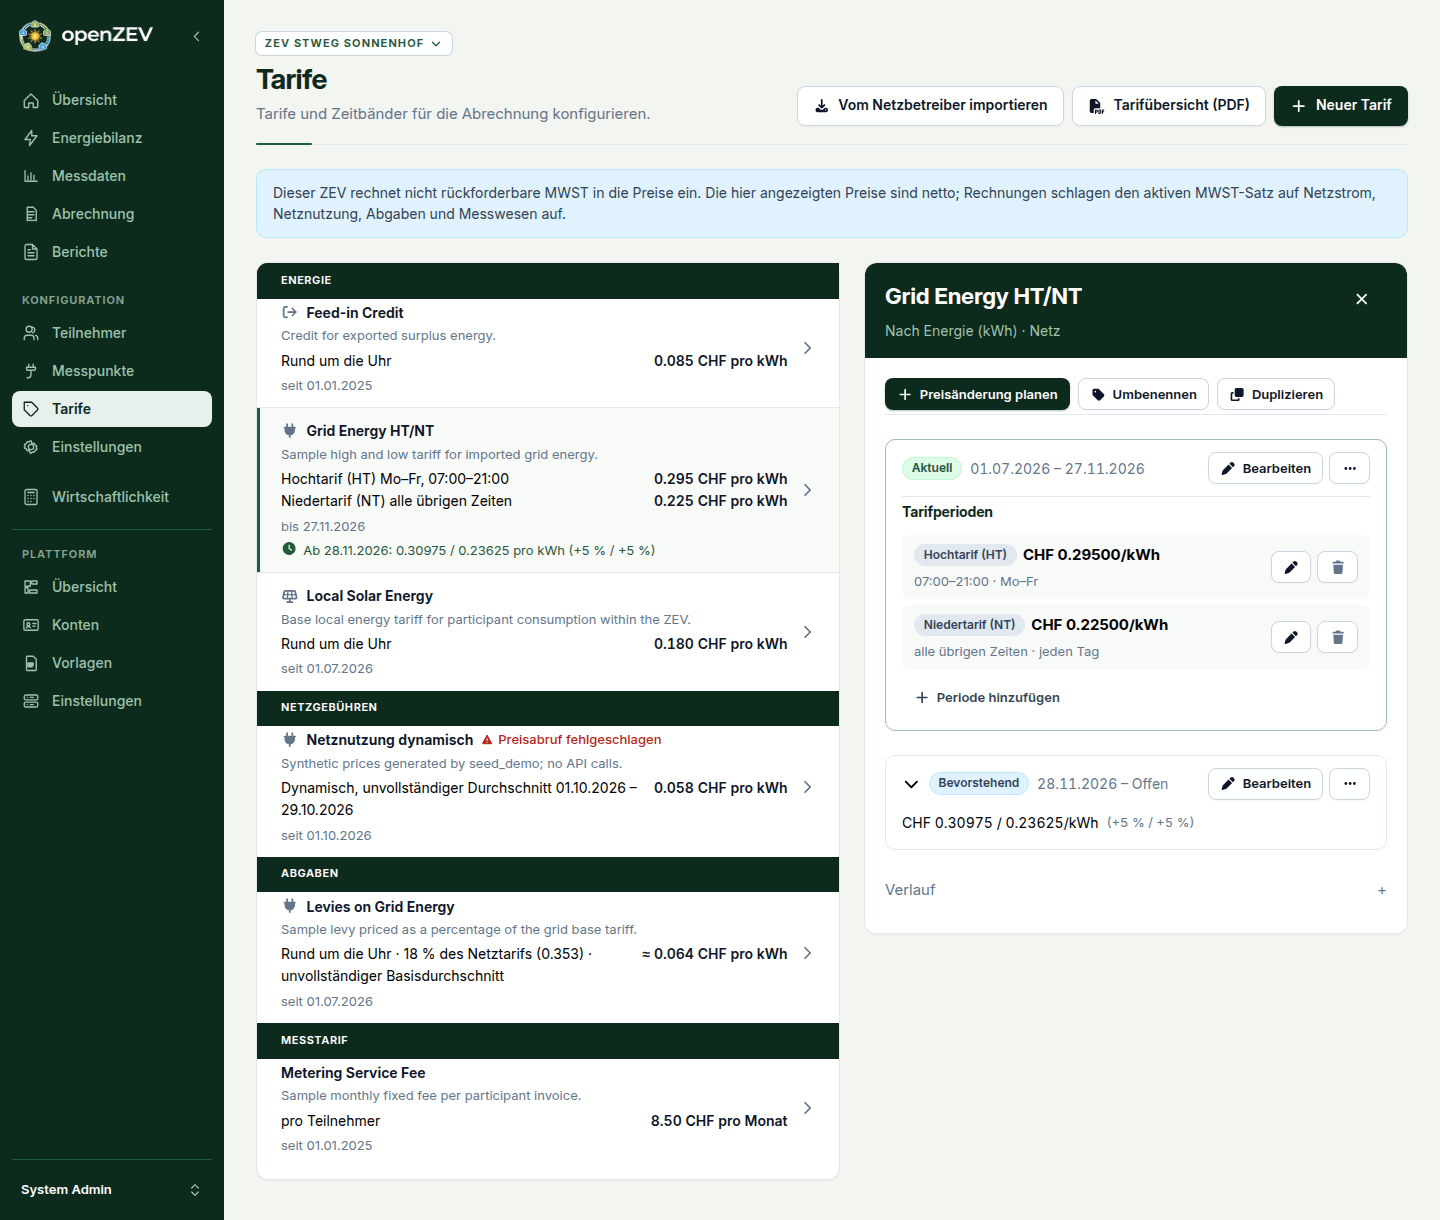
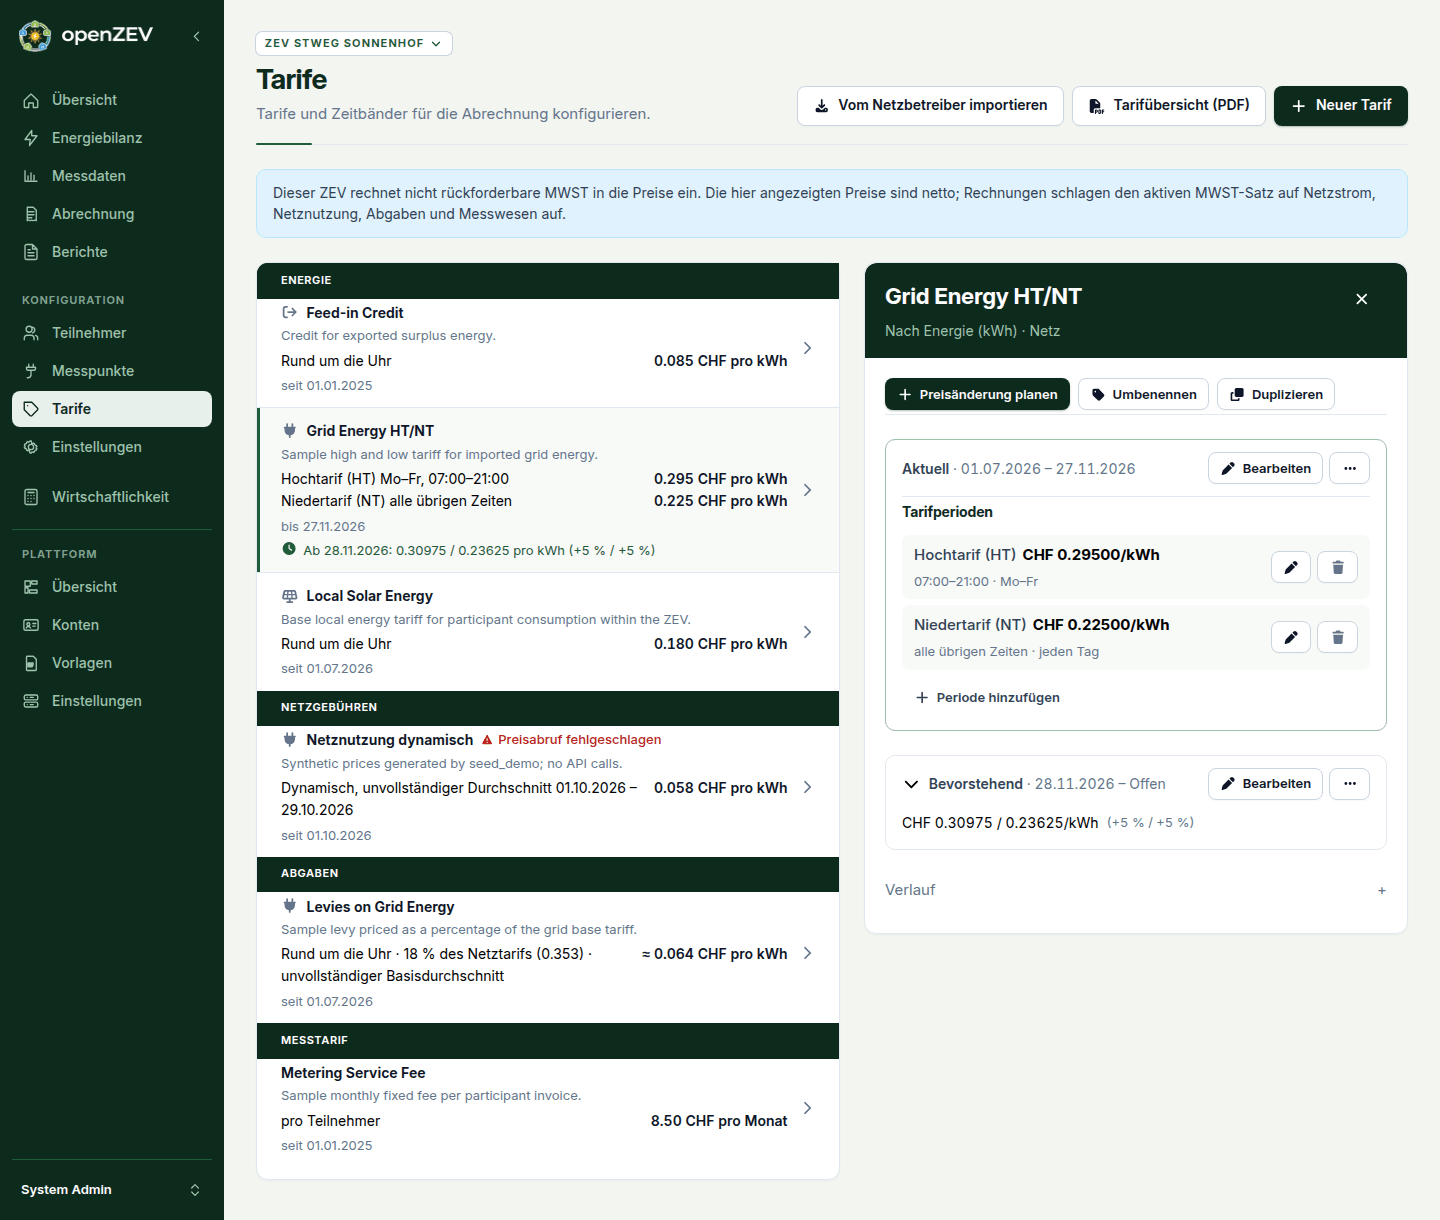
feat(tariffs): quieter badges in the tariff pane (#1139)
Band names are plain text in the pane, the draft bands and the price
change form, as in the list. A version's standing is the word Current or
Upcoming in front of its window instead of a coloured pill, and a past
version opened from the history no longer repeats "Ended". Drops the
unused badge class from validityBadge and the statusEnded string.

Closes #1133

diff --git a/frontend/src/features/tariffs/TariffDetailPane.tsx b/frontend/src/features/tariffs/TariffDetailPane.tsx
@@ -181,13 +181,19 @@ export function TariffDetailPane({
         const previous = previousOf(version)
         const comparison = previous ? deltaSummary(series, previous, version, (diff) => t('pages.tariffs.change.points', { diff })) : null
         const uncovered = hasBands && version.periods.length > 0 && bandCoverage(version.periods, version).uncovered
-        const status = (
-            <span className={`badge ${state === 'active' ? 'badge-success' : state === 'scheduled' ? 'badge-info' : 'badge-neutral'}`}>
-                {t(state === 'active'
-                    ? 'pages.tariffs.overview.current'
-                    : state === 'scheduled'
-                        ? 'pages.tariffs.overview.upcoming'
-                        : 'pages.tariffs.versions.statusEnded')}
+        // Plain words, not a pill: the state is the text, never a colour. A past
+        // version sits under the history heading, which already says it ended.
+        const standing = (
+            <span className="tariff-version-card-window">
+                {state !== 'expired' && (
+                    <>
+                        <strong className="tariff-version-card-state">
+                            {t(state === 'active' ? 'pages.tariffs.overview.current' : 'pages.tariffs.overview.upcoming')}
+                        </strong>
+                        {' \u00b7 '}
+                    </>
+                )}
+                {dateWindow(version)}
             </span>
         )
         return (
@@ -206,13 +212,11 @@ export function TariffDetailPane({
                             onClick={() => setUnfolded((current) => ({ ...current, [version.id]: !open }))}
                         >
                             <FontAwesomeIcon icon={faChevronDown} className="disclosure-toggle-icon" fixedWidth aria-hidden="true" />
-                            {status}
-                            <span className="tariff-version-card-window">{dateWindow(version)}</span>
+                            {standing}
                         </button>
                     ) : (
                         <div className="tariff-version-card-title">
-                            {status}
-                            <span className="tariff-version-card-window">{dateWindow(version)}</span>
+                            {standing}
                         </div>
                     )}
                     {!readOnly && (
@@ -286,7 +290,7 @@ export function TariffDetailPane({
                                         <div key={period.id} className="tariff-period-row">
                                             <div className="tariff-period-main">
                                                 <div className="tariff-period-line">
-                                                    <span className="badge badge-neutral">
+                                                    <span className="tariff-band-name">
                                                         {bandName(period, t(`pages.tariffs.periodTypes.${period.period_type}` as Parameters<typeof t>[0], { defaultValue: period.period_type }))}
                                                     </span>
                                                     {isPercentageTariff ? (

diff --git a/frontend/tests/tariff-detail-pane.test.ts b/frontend/tests/tariff-detail-pane.test.ts
@@ -51,7 +51,9 @@ describe('TariffDetailPane', () => {
     it('shows the current and the scheduled version in full, and folds the past into the history', async () => {
         const container = await pane()
         const cards = [...container.querySelectorAll('.tariff-version-card')]
-        expect(cards.slice(0, 2).map((card) => card.querySelector('.badge')?.textContent)).toEqual([
+        // Words, not pills: the standing is text in front of the window.
+        expect(container.querySelector('.tariff-version-card .badge')).toBeNull()
+        expect(cards.slice(0, 2).map((card) => card.querySelector('.tariff-version-card-state')?.textContent)).toEqual([
             'pages.tariffs.overview.current', 'pages.tariffs.overview.upcoming',
         ])
         const history = container.querySelector<HTMLDetailsElement>('.disclosure')!
@@ -64,7 +66,10 @@ describe('TariffDetailPane', () => {
         const container = await pane({ shownVersionId: 'past' })
         expect(container.querySelector<HTMLDetailsElement>('.disclosure')!.open).toBe(true)
         expect(container.querySelector('.tariff-version-row.is-shown.is-ended')).not.toBeNull()
-        expect(container.querySelector('.disclosure .tariff-version-card .badge')?.textContent).toBe('pages.tariffs.versions.statusEnded')
+        // The history heading already says it ended, so the card does not repeat it.
+        const card = container.querySelector('.disclosure .tariff-version-card')!
+        expect(card.querySelector('.badge, .tariff-version-card-state')).toBeNull()
+        expect(card.querySelector('.tariff-version-card-window')?.textContent).toContain('\u2013')
     })
 
     it('says what the scheduled version changes against the one before it', async () => {

diff --git a/frontend/src/features/tariffs/useTariffDisplay.ts b/frontend/src/features/tariffs/useTariffDisplay.ts
@@ -4,19 +4,11 @@ import { fetchDynamicTariffSources } from '../../lib/api/tariffs'
 import { queryKeys } from '../../lib/api/queryKeys'
 import { formatShortDate } from '../../lib/appSettings'
 import type { AppSettings, DynamicTariffSource, Tariff, TariffSeries, TariffVersion } from '../../types/api'
-import { validityState, type ValidityState } from './validity'
+import { validityState } from './validity'
 import { MONTH_KEYS, WEEKDAY_KEYS } from './recurrence'
 import { buildRateLines, kwhPrice, type RateLine } from './rateLines'
 
 export type { RateLine }
-
-// Validity is a state, so it keeps the status colours — scheduled is the blue
-// of "upcoming" everywhere else.
-const VALIDITY_BADGE_CLASS: Record<ValidityState, string> = {
-    active: 'badge badge-success',
-    scheduled: 'badge badge-info',
-    expired: 'badge badge-neutral',
-}
 
 /** The band percentages of a percentage-of-energy version, as numbers. */
 export function percentageValues(version: TariffVersion): number[] {
@@ -67,7 +59,6 @@ export function useTariffDisplay(settings: AppSettings, today: string) {
                     ? t('pages.tariffs.validity.until', { date: validTo })
                     : t('pages.tariffs.validity.since', { date: validFrom })
         return {
-            className: VALIDITY_BADGE_CLASS[state],
             label,
             tooltip: `${validFrom} - ${validTo ?? t('pages.tariffs.openEnded')}`,
         }

diff --git a/frontend/src/features/tariffs/TariffDraftBands.tsx b/frontend/src/features/tariffs/TariffDraftBands.tsx
@@ -125,7 +125,7 @@ export function TariffDraftBands({
                 <div key={index} className={`tariff-period-row${messages.length > 0 ? ' has-error' : ''}`}>
                   <div className="tariff-period-main">
                     <div className="tariff-period-line">
-                      <span className="badge badge-neutral">{name}</span>
+                      <span className="tariff-band-name">{name}</span>
                       <strong>CHF {kwhPrice.format(Number(band.price_chf_per_kwh))}/kWh</strong>
                     </div>
                     <div className="muted tariff-period-meta">{describe(band)}</div>

diff --git a/frontend/src/features/tariffs/TariffVersionForm.tsx b/frontend/src/features/tariffs/TariffVersionForm.tsx
@@ -259,7 +259,7 @@ export function TariffVersionForm({
               <div className="tariff-version-price-list">
                 {periods.map((period, index) => (
                   <label key={`${period.period_type}-${index}`} className="tariff-version-price-row">
-                    <span className="badge badge-neutral">
+                    <span className="tariff-band-name">
                       {t(`pages.tariffs.periodTypes.${period.period_type}` as Parameters<typeof t>[0], {
                         defaultValue: period.period_type,
                       })}

diff --git a/frontend/src/i18n/locales/fr.ts b/frontend/src/i18n/locales/fr.ts
@@ -2156,7 +2156,6 @@ export const fr = {
                 renameHint_other: 'Le changement de nom concerne les {{count}} versions \u2014 le nom est ce qui les relie.',
                 deleteVersion: 'Supprimer cette version',
                 moreActions: 'Plus',
-                statusEnded: 'Terminée',
                 gapBadge_one: '{{count}} lacune',
                 gapBadge_other: '{{count}} lacunes',
                 gapTooltip: 'Une partie de la chronologie n\u2019a aucune version : l\u2019\u00e9nergie y est factur\u00e9e \u00e0 z\u00e9ro.',

diff --git a/frontend/src/i18n/locales/it.ts b/frontend/src/i18n/locales/it.ts
@@ -2156,7 +2156,6 @@ export const it = {
                 renameHint_other: 'La ridenominazione riguarda tutte le {{count}} versioni \u2014 il nome \u00e8 ci\u00f2 che le tiene insieme.',
                 deleteVersion: 'Elimina questa versione',
                 moreActions: 'Altro',
-                statusEnded: 'Conclusa',
                 gapBadge_one: '{{count}} lacuna',
                 gapBadge_other: '{{count}} lacune',
                 gapTooltip: 'Una parte della cronologia non ha alcuna versione: l\u2019energia vi \u00e8 fatturata a zero.',

diff --git a/frontend/src/i18n/locales/de.ts b/frontend/src/i18n/locales/de.ts
@@ -2156,7 +2156,6 @@ export const de = {
                 renameHint_other: 'Die Umbenennung betrifft alle {{count}} Versionen \u2014 der Name h\u00e4lt sie zusammen.',
                 deleteVersion: 'Diese Version l\u00f6schen',
                 moreActions: 'Mehr',
-                statusEnded: 'Beendet',
                 gapBadge_one: '{{count}} L\u00fccke',
                 gapBadge_other: '{{count}} L\u00fccken',
                 gapTooltip: 'Ein Teil des Zeitverlaufs hat keine Version \u2014 Energie darin wird mit null verrechnet.',

diff --git a/frontend/src/i18n/locales/en.ts b/frontend/src/i18n/locales/en.ts
@@ -2167,7 +2167,6 @@ export const en = {
                 renameHint_other: 'Renaming applies to all {{count}} versions — the name is what keeps them together.',
                 deleteVersion: 'Delete this version',
                 moreActions: 'More',
-                statusEnded: 'Ended',
                 gapBadge_one: '{{count}} gap',
                 gapBadge_other: '{{count}} gaps',
                 gapTooltip: 'Part of this tariff\u2019s timeline has no version, so energy there is billed at nothing.',

diff --git a/frontend/src/features/tariffs/TariffDetailPane.css b/frontend/src/features/tariffs/TariffDetailPane.css
@@ -63,6 +63,19 @@
   font-variant-numeric: tabular-nums;
 }
 
+/* Current or upcoming, as a word in front of the window. */
+.tariff-version-card-state {
+  color: var(--text-body);
+  font-weight: 600;
+}
+
+/* A band's name: plain text, as the list shows it, in the pane, the draft
+   bands and the version form alike. */
+.tariff-band-name {
+  color: var(--text-body);
+  font-weight: 500;
+}
+
 .tariff-version-card-body {
   display: grid;
   gap: 0.75rem;

diff --git a/docs/specs/2026-10-tariff-split-view.md b/docs/specs/2026-10-tariff-split-view.md
@@ -255,7 +255,7 @@ Values and decisions the pilot produced (reference spec §13, open question 3).
 | Go/no-go for creation | **Go, with one case not exercised.** A simple fixed fee was created, renamed and deleted in the pane on the dev stack; the dynamic source form opened and was dirty-guarded as an inline section of the tariff form (`DynamicSourceForm`, the body of the former dialog, shared with the admin page), outside the tariff `<form>` so forms do not nest; a many-band tariff was created as one tariff and its bands added through the band form in the pane, which was opened but not run with many bands. Since #1113 the create form takes the bands of an energy tariff itself (see tariffs-and-billing-engine §3.2e). No task moved to a page. |
 | Duplicate | The spec did not name it; it follows rule A and is a pane form like rename and schedule price change. |
 | Pane content | The tariff price history chart sits in a lazily mounted disclosure (the shared `Disclosure`, `lazy`, since phase 2). A dynamic source's price chart is visible by default (only its statistics and interval table are in a lazy disclosure), see the dynamic-tariffs spec §10.4. Counts and validity pills are gone from the pane. |
-| Pane layout | The pane has two levels. Header actions are tariff-level and visible: Schedule price change, Rename, Duplicate. Under them every version in force or scheduled has its own card (`versionCard`, `.tariff-version-card`), the one in force first, nearest scheduled next. A card leads with its status badge (Current / Upcoming, replacing the "Viewing an …" banner) and the validity window in muted text, then its own labelled **Edit**. The body holds the price of a tariff without bands, the dynamic source or the bands (a pencil per band, a quiet **Add Period** under them), and the band coverage notice. Notes appear only when they differ from the notes of the version the overview row shows (`listedVersion`). The version the list pointed at (`version` parameter) gets an outline when there are several cards. |
+| Pane layout | The pane has two levels. Header actions are tariff-level and visible: Schedule price change, Rename, Duplicate. Under them every version in force or scheduled has its own card (`versionCard`, `.tariff-version-card`), the one in force first, nearest scheduled next. A card leads with its standing as plain words (Current / Upcoming in `.tariff-version-card-state`, replacing the "Viewing an …" banner) in front of the validity window in muted text (`Current · 01.07.2026 – 26.11.2026`), then its own labelled **Edit**; neither is a pill, and the state is the word, never the colour. A past version opened from the history shows only its window, with no "Ended" marker, since the history heading says it. A band's name (pane, draft bands, price-change form) is plain text, `.tariff-band-name`, as in the list. The body holds the price of a tariff without bands, the dynamic source or the bands (a pencil per band, a quiet **Add Period** under them), and the band coverage notice. Notes appear only when they differ from the notes of the version the overview row shows (`listedVersion`). The version the list pointed at (`version` parameter) gets an outline when there are several cards. |
 | Scheduled cards | A scheduled version is **folded** to a line by default: a toggle button (`aria-expanded`, `aria-controls`) over status and window, then its price summary, the relative change against the version before it (`deltaSummary`) and an **Hours without a band** issue text when `bandCoverage` finds uncovered hours, so a problem is not hidden by the fold. It is open by default when it is the shown version; opening or folding is remembered per version id for the life of the pane. The current version is never folded. |
 | History | `History` (no count) is a disclosure under the cards, present only when versions have ended. It holds the price-history chart (when the series has more than one version) and a list of the ended versions (window and price, `aria-pressed`); picking one shows its card, marked Ended, below the list. It opens by itself when an ended version is the shown one or nothing is in force or scheduled. |
 | Change against the previous version | `priceDelta.ts`: `versionDeltas` compares each band of a scheduled version with the band of the version before it that applies to the same type, label, hours, weekdays and months (a band with no counterpart gets none), or the fixed fee of a flat-fee tariff; percentage tariffs compare points; a dynamic version has none. `formatDelta` renders `+0.020 (+6.8 %)` (the amount, then the relative change; percentage points for a percentage tariff) and `deltaSummary` the relative figures only, in band order, `±0` for an unchanged band, `null` when nothing moved. Shown beside the band price in the card and, as a summary, in the folded card and in the overview row. A visually hidden prefix names it for screen readers. |

diff --git a/docs/specs/2026-04-frontend-management-page-design.md b/docs/specs/2026-04-frontend-management-page-design.md
@@ -518,7 +518,7 @@ Rules:
   - Current, Upcoming and a folded History, each a sheet with a table per category, in the order `energy`, `grid_fees`, `levies`, `metering`, the category named in the table's band
   - a rate card like the tariff overview PDF: one row per tariff series with the name, energy type and note, a line per price band (applicability, price and unit) and its validity; narrow cards repeat each band as one unit with its own CHF; pricing explanations remain on the narrow bands, and partial percentage bases visibly say “incomplete base average”; the combined band column has a visually hidden header associated through `headers`; the row opens the detail pane on its displayed version
   - tariff periods, versions and actions (Edit included) in the detail pane, which also holds the forms: create, edit a version, schedule a price change, rename, duplicate, add or edit a band (no dialog opens over it; the dynamic source form is an inline section). Unsaved input is guarded for X, Cancel, Escape, Back, selecting another tariff or version, and reload (`useDraftGuard`)
-- Badges beside a tariff name are reserved for warnings (a gap, a failed price fetch); validity is plain text in the Valid column, and a row whose version has ended sits on a grey ground. `tariffOverview` groups the series (the version in force; the nearest upcoming one; the newest ended one). `listedVersion` consumes the API’s newest-first order, choosing the current version, otherwise the nearest upcoming version, otherwise the newest expired version; the pane uses the same default when the URL has no explicit version. The `tariff` and `version` query parameters select the pane: opening from the list adds one history step, switching tariff or version replaces it, X takes the step back (or returns in place for a direct link), and a link to a tariff that no longer exists opens the list. A tariff's billing mode is told by its Applies and Unit cells rather than named (SPEC-2026-08 §15.3).
+- Badges beside a tariff name are reserved for warnings (a gap, a failed price fetch); validity is plain text in the Valid column, and in the pane a version's standing and a band's name are plain text too, and a row whose version has ended sits on a grey ground. `tariffOverview` groups the series (the version in force; the nearest upcoming one; the newest ended one). `listedVersion` consumes the API’s newest-first order, choosing the current version, otherwise the nearest upcoming version, otherwise the newest expired version; the pane uses the same default when the URL has no explicit version. The `tariff` and `version` query parameters select the pane: opening from the list adds one history step, switching tariff or version replaces it, X takes the step back (or returns in place for a direct link), and a link to a tariff that no longer exists opens the list. A tariff's billing mode is told by its Applies and Unit cells rather than named (SPEC-2026-08 §15.3).
 - Tariff periods remain nested under the parent tariff rather than in a separate global table.
 - Tariff periods are shown only as an active workflow for energy tariffs. Fixed-fee tariffs show a hint instead of a period list CTA.
 
